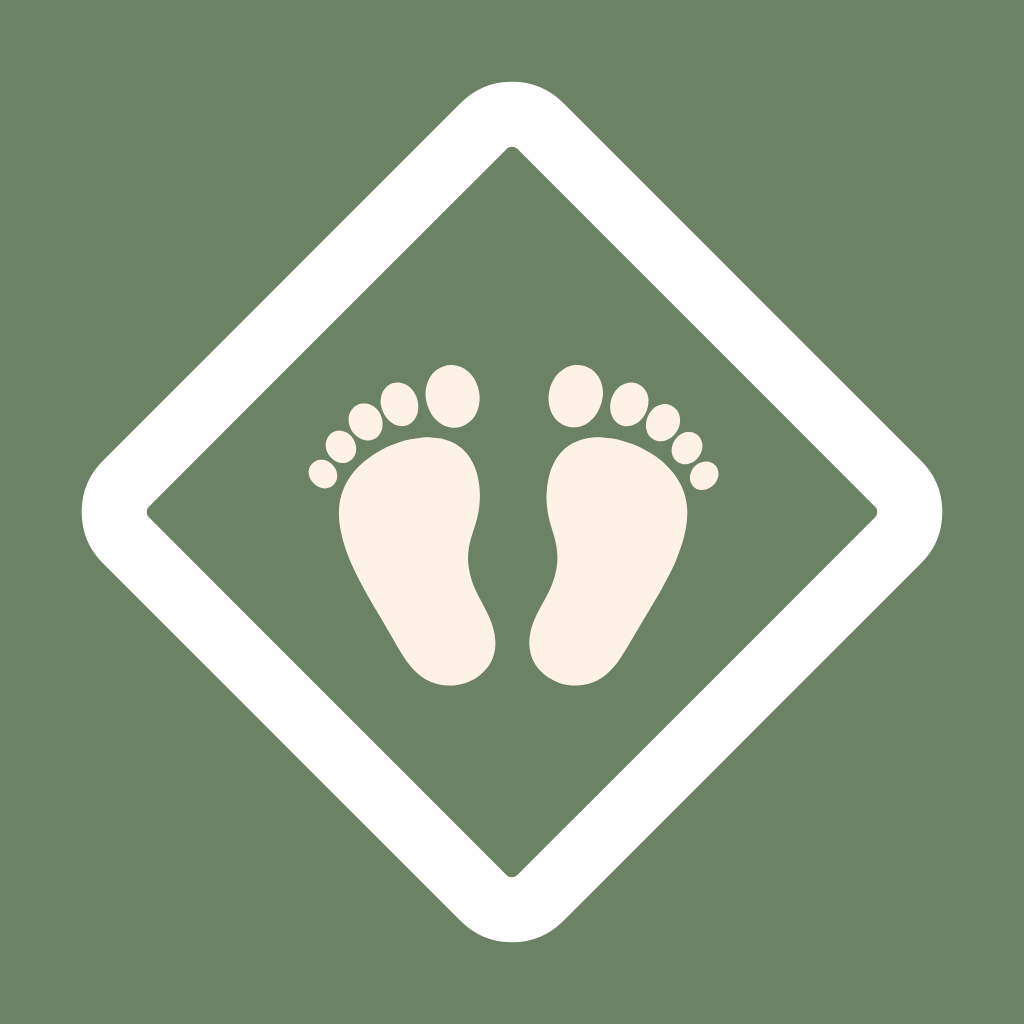
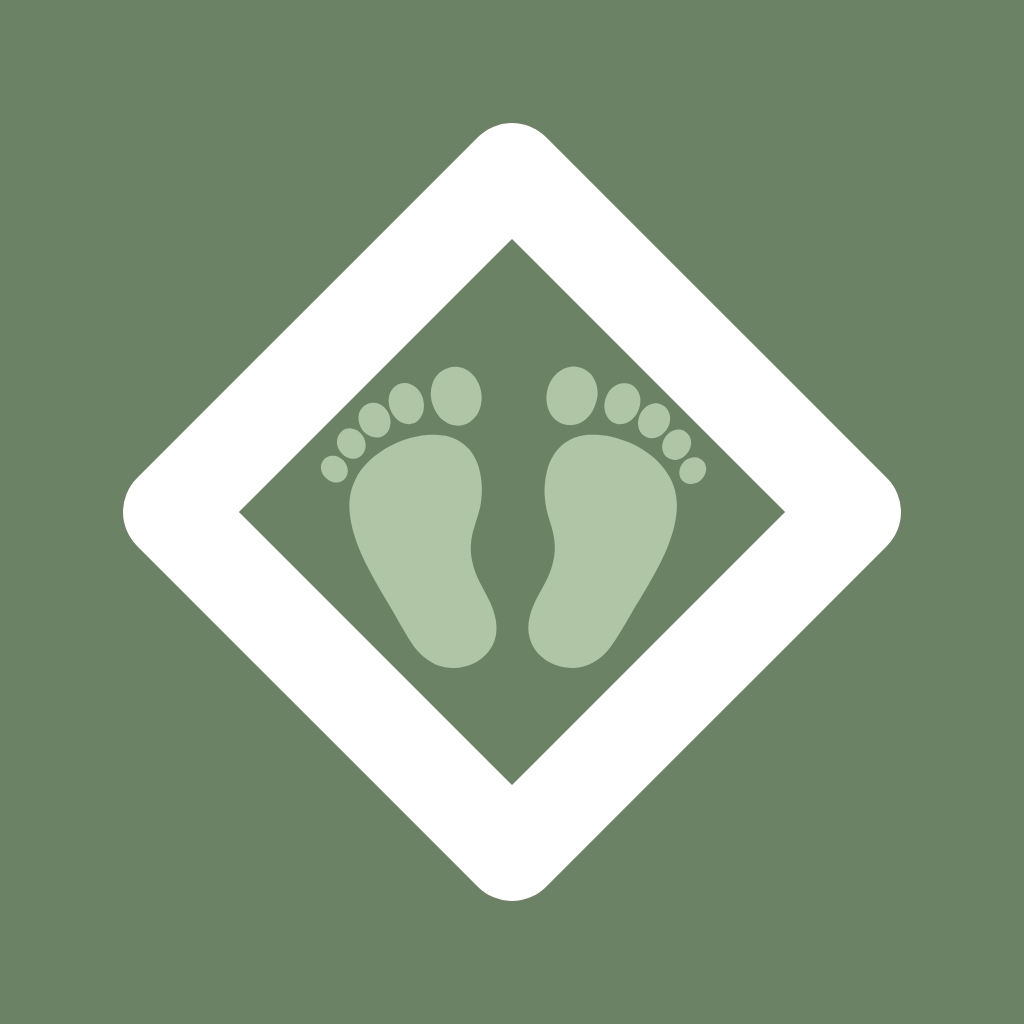
fix(brand): иконка вернулась на семейную сетку AG/Gymbar
Ромб был на 13% крупнее и в 1,5 раза тоньше эталона, а знак внутри —
почти белый, из-за чего в иконке не было акцентного цвета вообще.

- вершины 12,3/87,7% → 16,7/83,3%, штрих 65 → 96, дуги на углах убраны
- ножки #FEF2E7 → светлый шалфей #B0C4A6 (белый закреплён за контуром)
- ножки влезли без перерисовки: 267 из 273 свободных единиц, scale 0.94
- пересобраны icon/adaptive/splash и обе store-картинки
- канон вынесен в design/icon-concepts/sage-r7-family.svg

Changed region(s): [[0.0625, 0.0625, 0.9375, 0.9375]]

diff --git a/design/icon-concepts/README.md b/design/icon-concepts/README.md
@@ -153,3 +153,30 @@
 
 Тот же рисунок вшит в `mobile/scripts/brand.html` — три PNG пересобираются командой
 `python3 mobile/scripts/shoot-brand.py` (Chromium не стартует из песочницы агента).
+
+---
+
+## Раунд 4 — возврат к семейной сетке (2026-08-25, вечер)
+
+Вугар заметил: ромб LittleGuide тоньше, чем у AsbestosGuard и Gymbar, стиль семьи теряется.
+Замер подтвердил три расхождения от эталона — исправлены все три.
+
+| | AG / Gymbar | LG было | LG стало |
+|---|---|---|---|
+| Вершины ромба | 16,7 % / 83,3 % | 12,3 % / 87,7 % | 16,7 % / 83,3 % |
+| Штрих | 96 при 1024 (9,4 %) | 65 (6,3 %) | 96 |
+| Углы | только `stroke-linejoin: round` | дуги `r=40` сверху | только `linejoin` |
+| Знак внутри | цветной акцент | кремовый `#FEF2E7` (почти белый) | светлый шалфей `#B0C4A6` |
+
+Белый в семье закреплён за контуром; знак внутри всегда цветной. Кремовые ножки давали
+два белых элемента и ломали грамматику сильнее, чем толщина.
+
+Ножки при штрихе 96 помещаются без перерисовки: занимают 267 единиц из 273 доступных.
+В исходнике даны `scale(0.94)` — только на воздух.
+
+Канон: `sage-r7-family.svg`. Сборка: `mobile/scripts/brand.html` → `python3 scripts/shoot-brand.py`.
+Плитка `#6C8265` и `adaptiveIcon.backgroundColor` не менялись.
+
+⚠ Открыто: в 28 px пальчики схлопываются в крапинки — у AG и Gymbar внутри простая
+горизонтальная фигура, она держит мелкий размер лучше. Решать отдельно (крупнее и меньше
+пальчиков либо одна ножка вместо двух).
